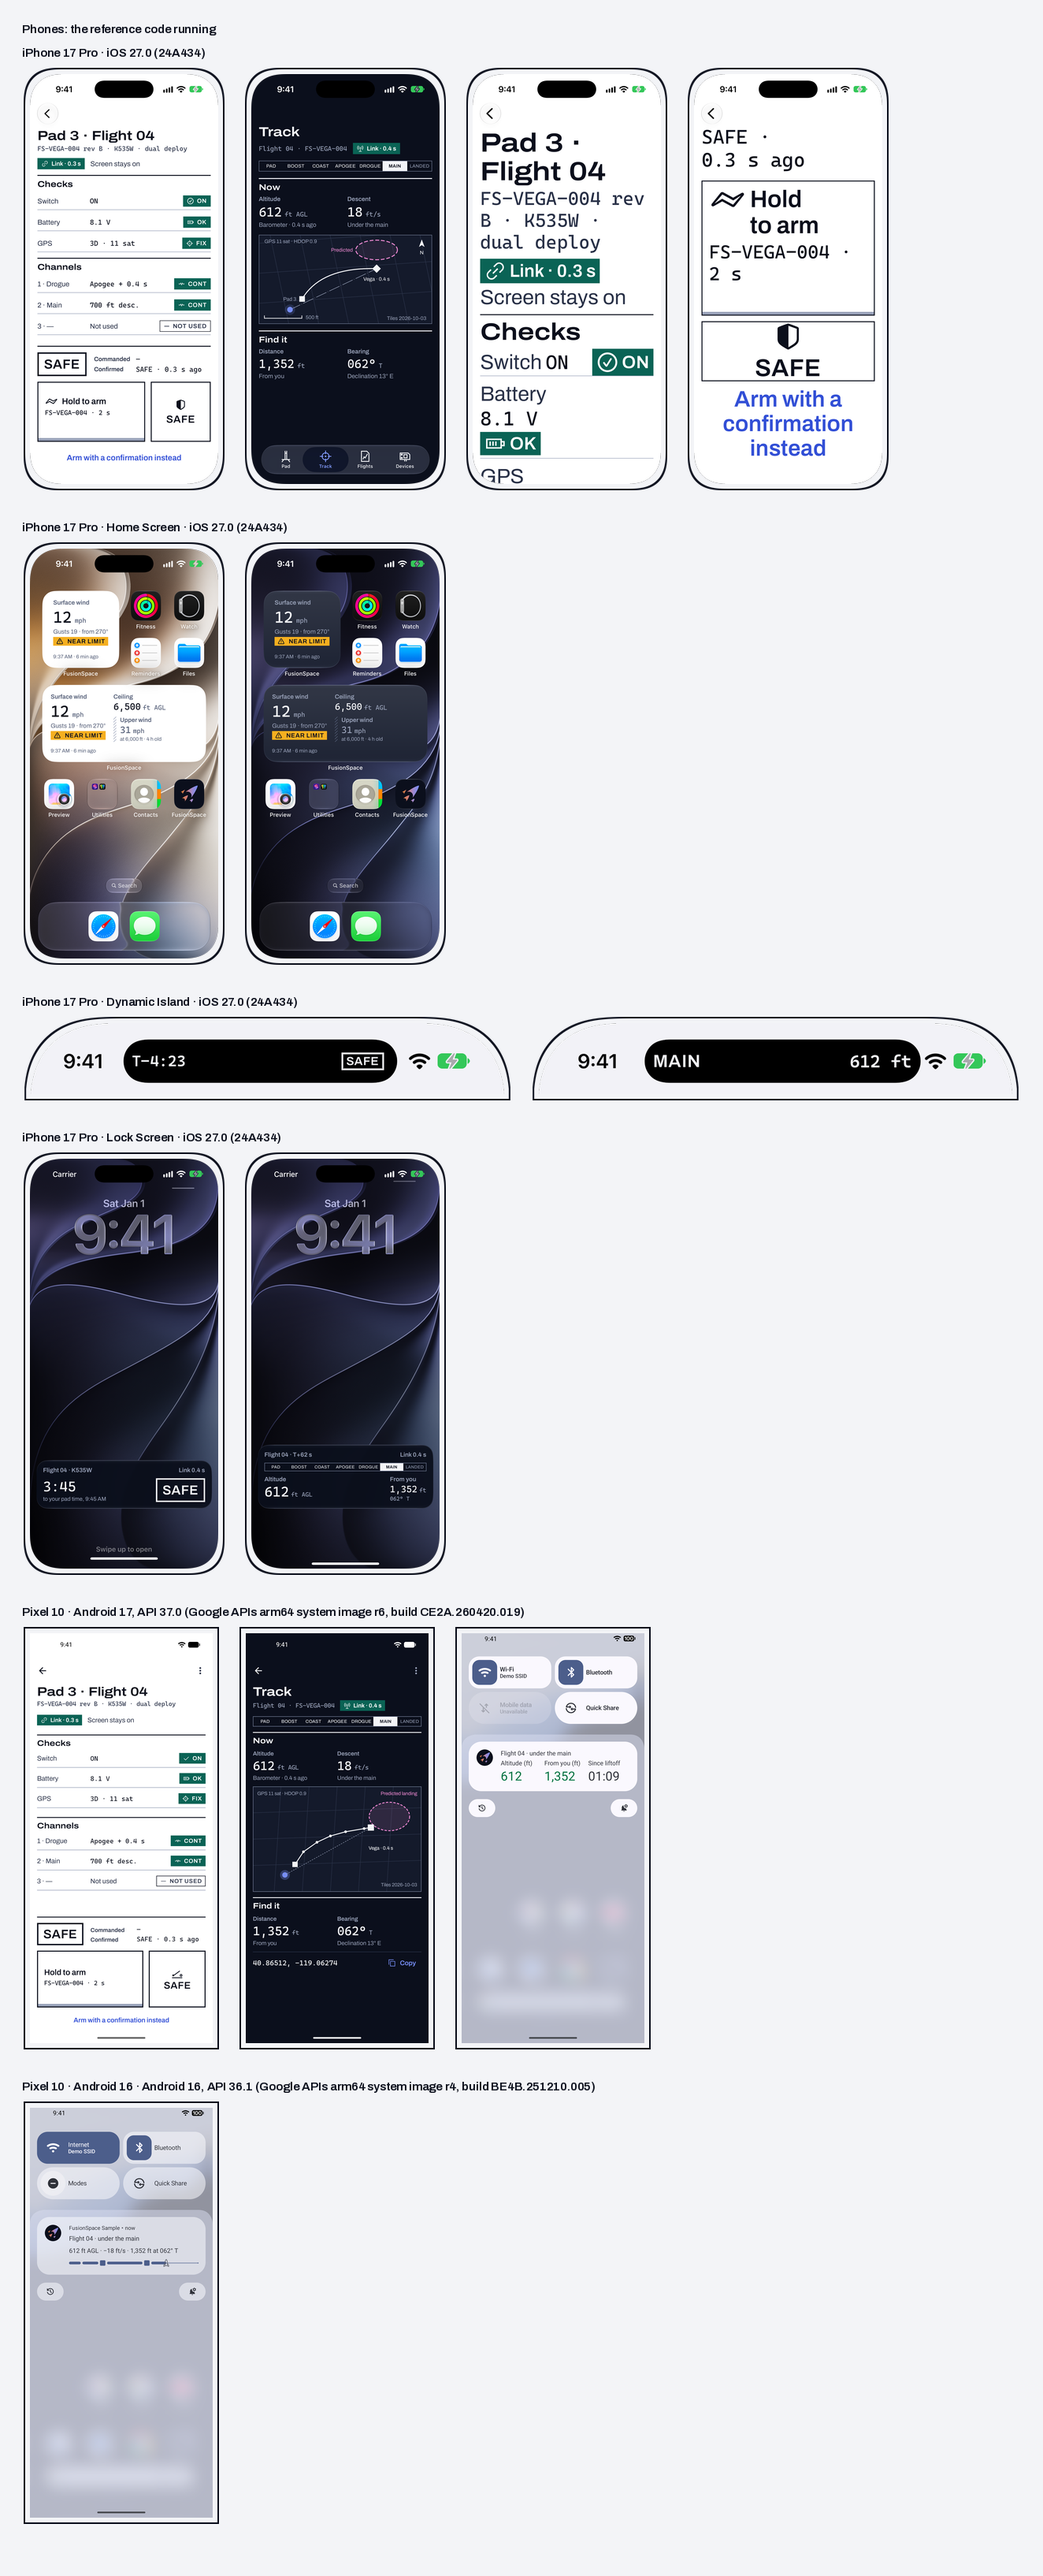
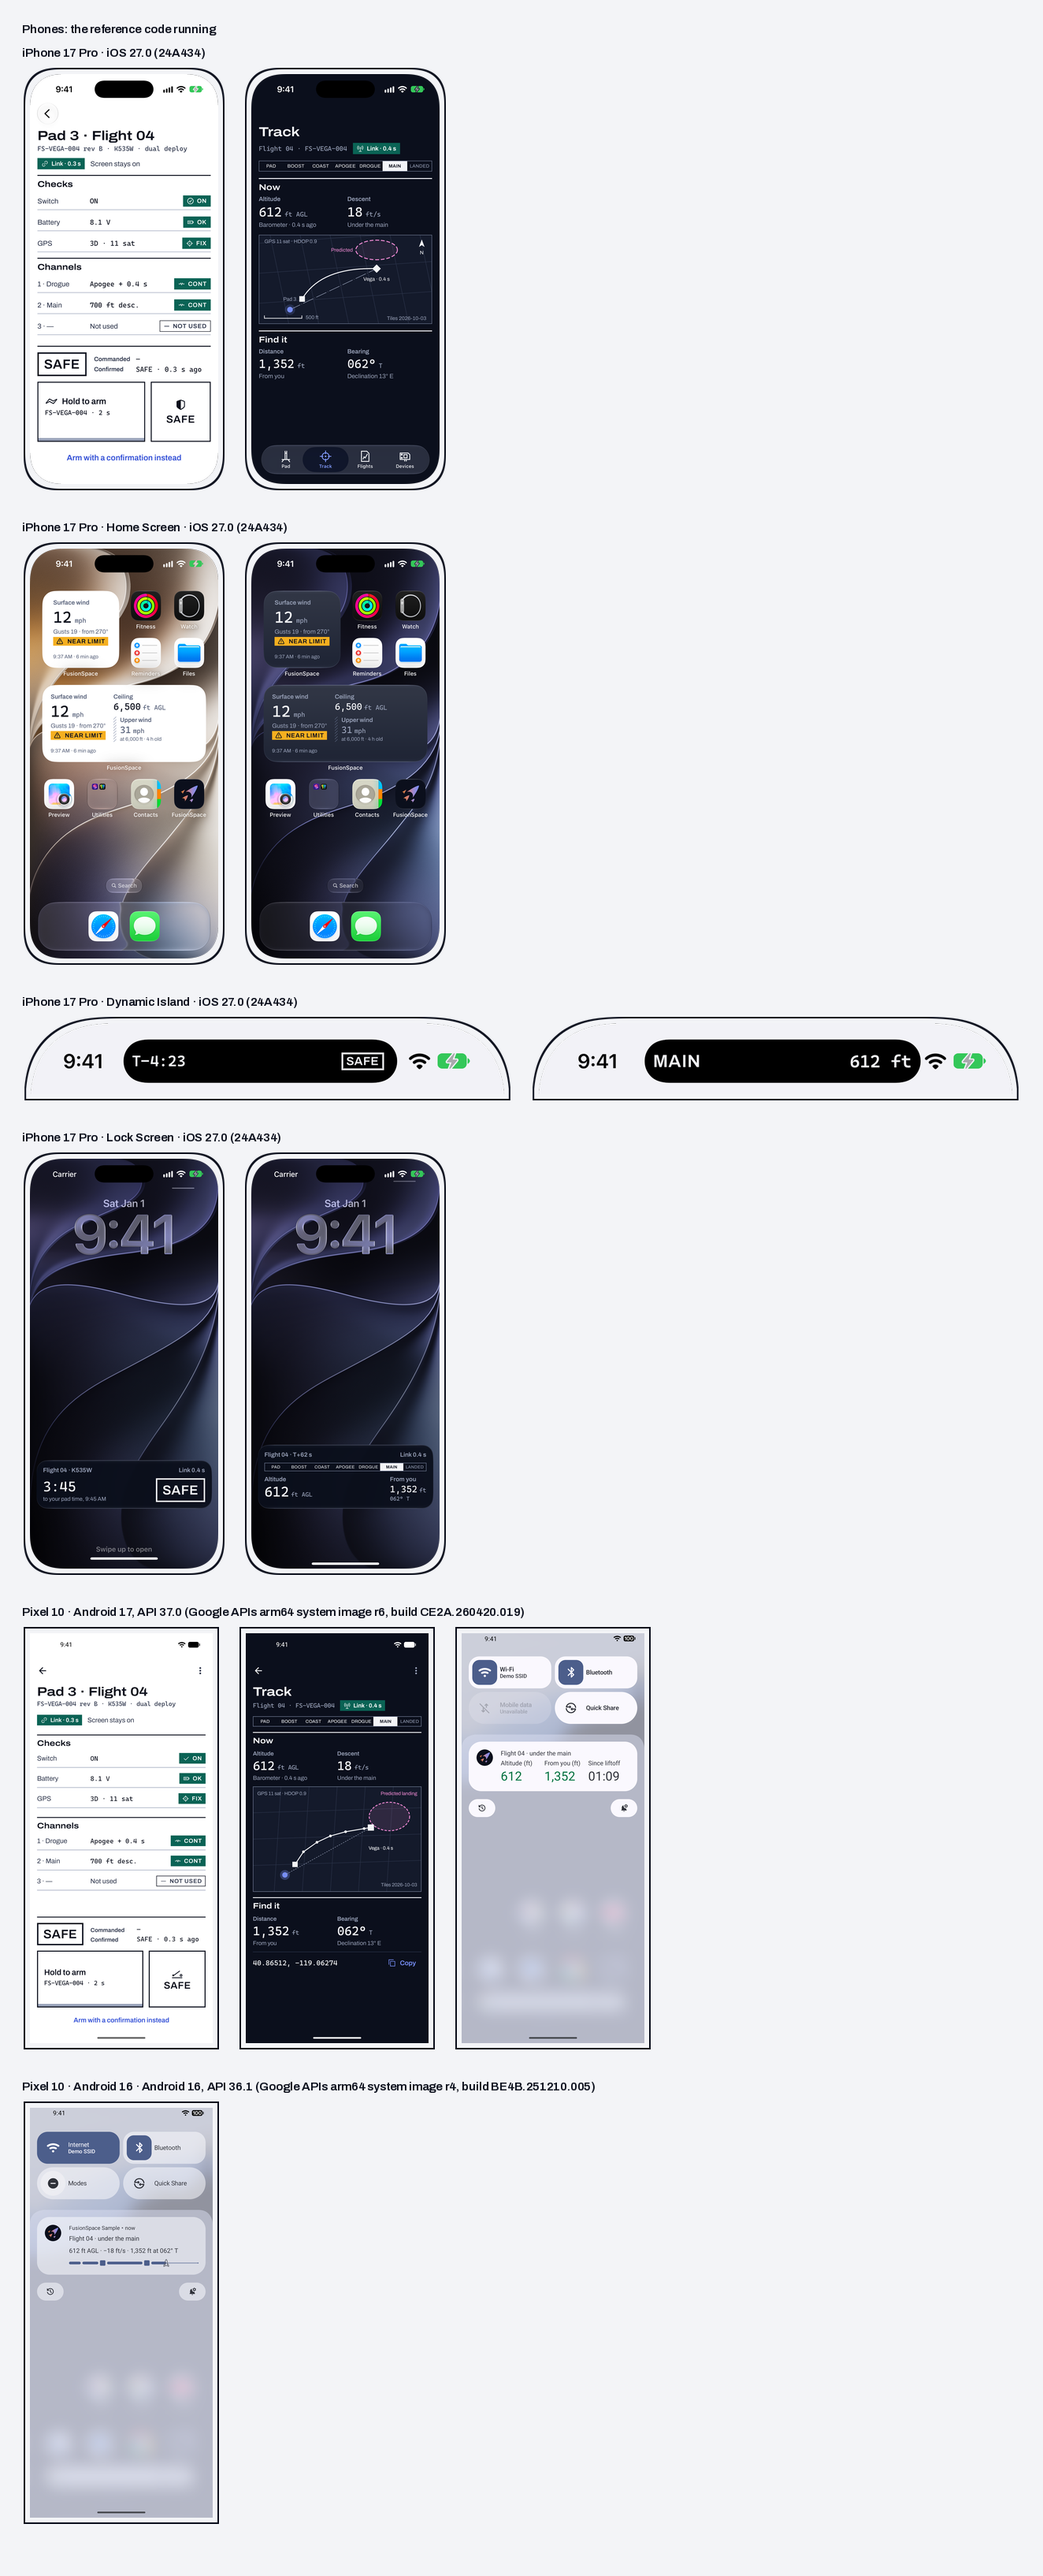
Keep the iPhone's largest-text Pad captures out of the published set
Both catch Pad part way through a scroll, so a row runs off the bottom
edge of the frame. They stay in source/ and the build still reads them
back for "…", like the Android and watch captures at their largest
sizes.

Changed region(s): [[0.4335, 0.0312, 0.6503, 0.1873], [0.6503, 0.0312, 0.8051, 0.1873]]

diff --git a/product/mobile/devices/README.md b/product/mobile/devices/README.md
@@ -16,8 +16,6 @@ from `source/product/devices/`, where `devices.json` records each capture's devi
 | `ios-track.png` | iPhone 17 Pro, iOS 27.0 (24A434) | Track screen, system dark appearance, opened from the Home Screen icon through Device Hub (no back-link); FusionSpace SF Symbols in the tab bar and chips |
 | `ios-lock-flight.png` | iPhone 17 Pro, iOS 27.0 (24A434) | Live Activity on the Lock Screen in flight (phase strip, altitude, distance and bearing), -activity flight, locked and woken with the power button through Device Hub; dark |
 | `ios-lock-pad.png` | iPhone 17 Pro, iOS 27.0 (24A434) | Live Activity on the Lock Screen at the pad (countdown and the device's SAFE state), -activity pad, locked and woken with the power button through Device Hub; dark. Built with FS_CAPTURE_CLOCK=9:41, so the pad time (9:45 AM) agrees with the 9:41 clock and the 3:48 countdown |
-| `ios-pad-ax5.png` | iPhone 17 Pro, iOS 27.0 (24A434) | Pad at the largest accessibility text size (AX5): the top of the screen, as it scrolls |
-| `ios-pad-ax5-end.png` | iPhone 17 Pro, iOS 27.0 (24A434) | Pad at AX5, scrolled to its end: the state, Hold to arm and SAFE stacked, and the confirmation link |
 | `phone-pad.png` | Pixel 10, Android 17, API 37.0 (Google APIs arm64 system image r6, build CE2A.260420.019) | Pad, field theme |
 | `phone-track.png` | Pixel 10, Android 17, API 37.0 (Google APIs arm64 system image r6, build CE2A.260420.019) | Track, dark |
 | `phone-live-update.png` | Pixel 10, Android 17, API 37.0 (Google APIs arm64 system image r6, build CE2A.260420.019) | Live Update in the notification shade (MetricStyle, semantic style SAFE) |
